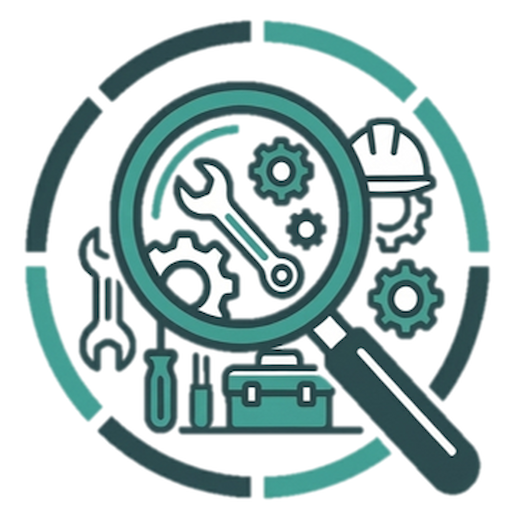
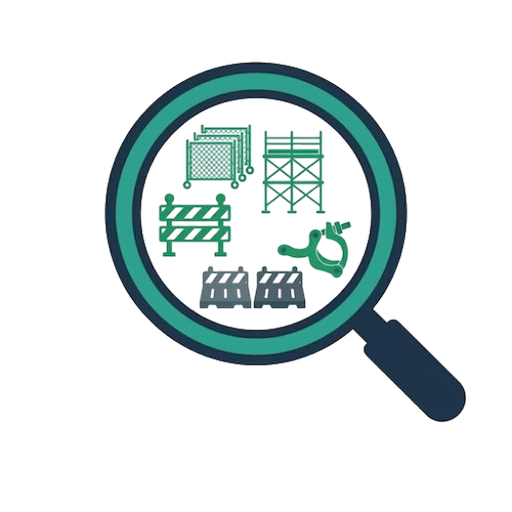
Add files via upload

diff --git a/index.html b/index.html
@@ -54,22 +54,42 @@
 </div>
 
 <script>
-let rawData=[], viewData=[], colMap={}, page=1;
-const el=id=>document.getElementById(id);
+let rawData = [], viewData = [], colMap = {};
+const el = id => document.getElementById(id);
 
-// データ取得
-async function loadData(){
-  const url="https://script.google.com/macros/s/AKfycby0faWengFZ9TdfnX3LX7JBCbGEy5A1Pw4308MJSWISOLDU2d8vjJcQwmOCoOHBwji7Sg/exec";
-  try{
+// 1. 起動時にキャッシュをチェック
+async function loadData() {
+  const url = "https://script.google.com/macros/s/AKfycby0faWengFZ9TdfnX3LX7JBCbGEy5A1Pw4308MJSWISOLDU2d8vjJcQwmOCoOHBwji7Sg/exec";
+  const CACHE_KEY = 'equipment_data_cache';
+
+  // ローカルストレージからデータを読み込む
+  const cachedData = localStorage.getItem(CACHE_KEY);
+  if (cachedData) {
+    rawData = JSON.parse(cachedData);
+    initAfterLoad(); // キャッシュがあれば即座に表示
+    console.log("Cache loaded: Instant display");
+  }
+
+  // 裏側で最新データを取得（バックグラウンド更新）
+  try {
     const res = await fetch(url);
-    rawData = await res.json();
-    initAfterLoad();
-  }catch(e){
-    el('list').innerHTML = `<div class="p-10 text-center text-red-500">通信エラーが発生しました</div>`;
+    const newData = await res.json();
+    
+    // データが更新されていた場合、またはキャッシュがなかった場合のみ再描画
+    if (JSON.stringify(newData) !== cachedData) {
+      rawData = newData;
+      localStorage.setItem(CACHE_KEY, JSON.stringify(newData));
+      initAfterLoad();
+      console.log("Data updated from Spreadsheet");
+    }
+  } catch (e) {
+    if (!cachedData) {
+      el('list').innerHTML = `<div class="p-10 text-center text-red-500">通信エラー（初回はネット接続が必要です）</div>`;
+    }
   }
 }
 
-function initAfterLoad(){
+function initAfterLoad() {
   normalizeColumns();
   bindCategoryOptions();
   applyFilters();
